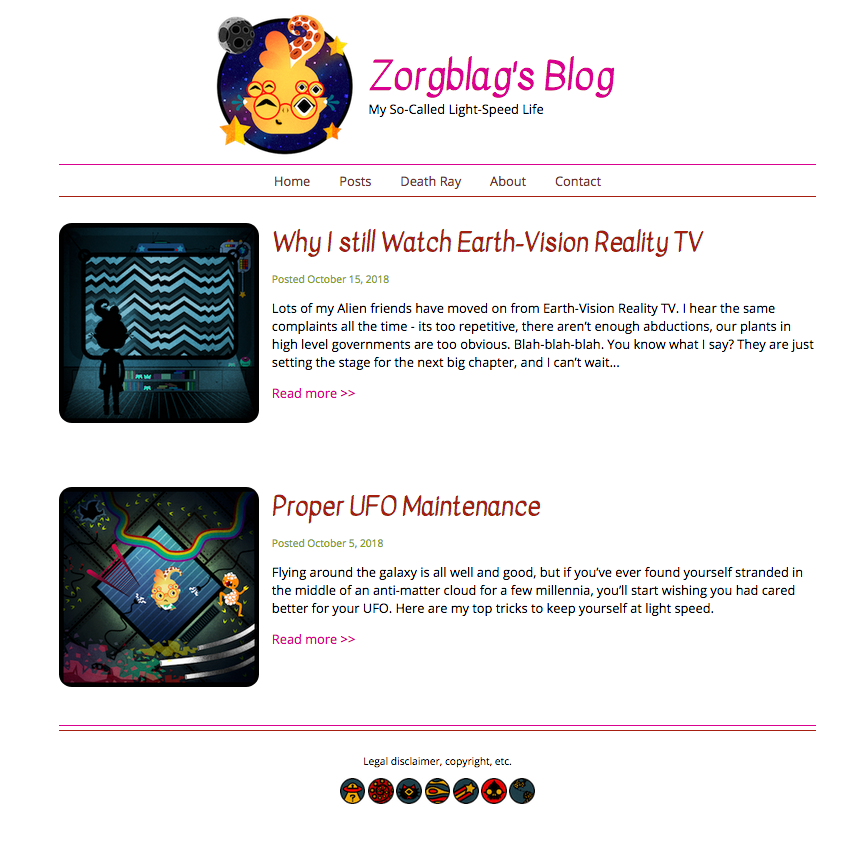
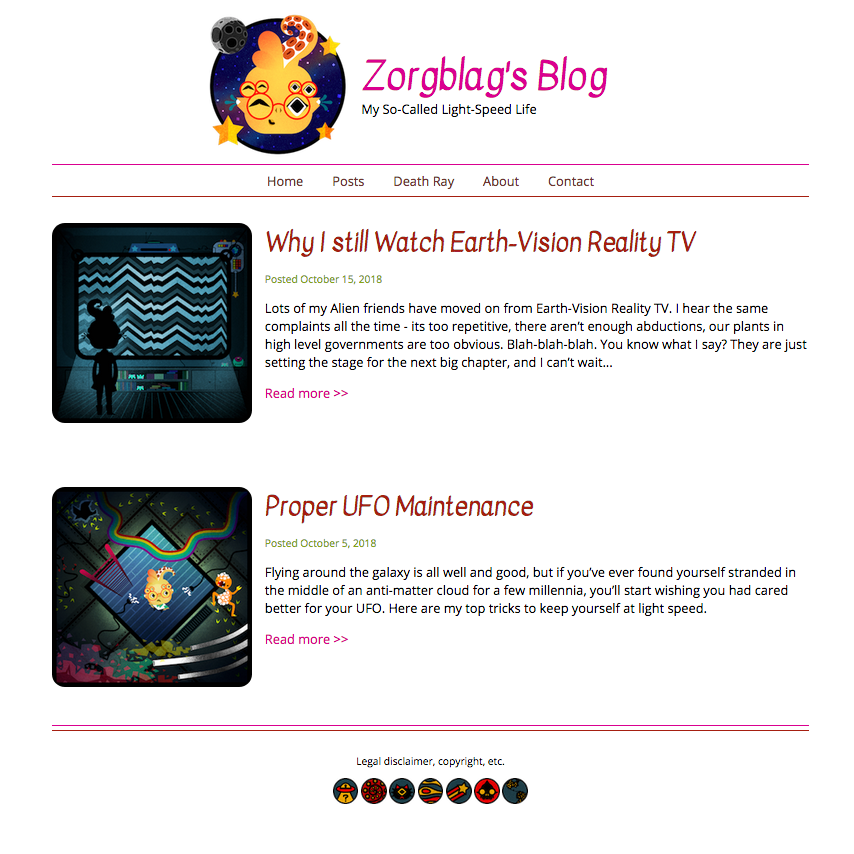
Update intro message, Add Dog Viewer project, Fix images sizes and Fix project description layout

diff --git a/index.html b/index.html
@@ -77,7 +77,7 @@
         </header>
 
         <div class="blackbox">
-          <h2>I'm venturing into the world of programming.</h2>
+          <h2>"TODAY I LEARN TO CODE SO I CAN CREATE THE CODE OF TOMORROW!"</h2>
           <p>
             Hi, my name is <span class="name">Antonio Poloni</span>. Technology
             has always been part of my life. Since childhood, I have harbored a
@@ -190,9 +190,8 @@
                       <p>
                         I used typography to build a nutrition label webpage. I
                         learned how to style text, adjust line height, and
-                        position your text using CSS. Typography is the art of
-                        styling your text to be easily readable and suit its
-                        purpose.
+                        position text using CSS. Typography is the art of
+                        styling text to be easily readable and suit its purpose.
                       </p>
                     </a>
                   </figcaption>
@@ -230,6 +229,31 @@
             <div class="swiper-wrapper">
               <!-- Slides -->
               <div class="swiper-slide">
+                <figure id="FEM-BLP-wordMasters">
+                  <a
+                    href="projects/Frontend Masters/word-masters/word-masters.html"
+                    target="_blank"
+                    ><img
+                      src="projects/Frontend Masters/word-masters/word-masters-screenshot.png"
+                      alt="Word Masters Project Screenshot."
+                  /></a>
+                  <figcaption>
+                    <a
+                      href="projects/Frontend Masters/word-masters/word-masters.html"
+                      target="_blank"
+                    >
+                      <h4>Word Masters (Desktop)</h4>
+                      <p>
+                        Learned to develop a Wordle clone using HTML, CSS, and
+                        JavaScript. Implemented gameplay logic, API integration
+                        for word selection, and dynamic UI updates for user
+                        feedback and interactions.
+                      </p>
+                    </a>
+                  </figcaption>
+                </figure>
+              </div>
+              <div class="swiper-slide">
                 <figure id="FEM-BTC-moleStar">
                   <a
                     href="projects/Frontend Masters/mole-game/mole.html"
@@ -255,25 +279,25 @@
                 </figure>
               </div>
               <div class="swiper-slide">
-                <figure id="FEM-BLP-wordMasters">
+                <figure id="FEM-BTC-dogViewer">
                   <a
-                    href="projects/Frontend Masters/word-masters/word-masters.html"
+                    href="projects/Frontend Masters/dog-viewer/dog-viewer.html"
                     target="_blank"
                     ><img
-                      src="projects/Frontend Masters/word-masters/word-masters-screenshot.png"
-                      alt="Word Masters Project Screenshot."
+                      src="projects/Frontend Masters/dog-viewer/frontendMasters-dogViewer-Screenshot.png"
+                      alt="Dog Viewer Project Screenshot."
                   /></a>
                   <figcaption>
                     <a
-                      href="projects/Frontend Masters/word-masters/word-masters.html"
+                      href="projects/Frontend Masters/dog-viewer/dog-viewer.html"
                       target="_blank"
                     >
-                      <h4>Word Masters (Desktop)</h4>
+                      <h4>Dog Viewer</h4>
                       <p>
-                        Learned to develop a Wordle clone using HTML, CSS, and
-                        JavaScript. Implemented gameplay logic, API integration
-                        for word selection, and dynamic UI updates for user
-                        feedback and interactions.
+                        Allowing users to select a breed and display a random
+                        picture. Learned to handle API requests with
+                        async/await, manage dynamic DOM updates, and implement
+                        CSS animations for a loading spinner.
                       </p>
                     </a>
                   </figcaption>

diff --git a/css/style.css b/css/style.css
@@ -363,11 +363,19 @@
   }
   figure {
     display: grid;
-    grid-template-rows: 1fr 7rem;
+    grid-template-rows: 1fr;
+    margin: 0;
+    padding: 0;
+    max-width: 100%;
+    max-height: 100vh;
+    margin: auto;
   }
   figure img {
-    width: 100%;
-    height: 100%;
+    padding: 0;
+    display: block;
+    margin: 0 auto;
+    max-height: 100%;
+    max-width: 100%;
   }
   figcaption {
     background-color: var(--black);
@@ -378,7 +386,7 @@
     display: flex;
     justify-content: center;
     align-items: center;
-    padding: 1rem 0.5rem;
+    padding: 0.5rem;
     color: var(--white);
   }
   figcaption h4 {
@@ -394,12 +402,6 @@
   figcaption li {
     display: inline-block;
   }
-  .topgrid {
-    display: grid;
-    grid-template-columns: 1fr 1fr 1fr;
-    gap: 2rem;
-    margin: 2rem 0;
-  }
   .projects-button {
     text-align: center;
   }
@@ -413,26 +415,12 @@
     color: var(--green);
   }
 
-  @media (max-width: 1023px) {
-    .topgrid {
-      grid-template-columns: 1fr 1fr;
-    }
-  }
   @media (max-width: 767px) {
-    .topgrid {
-      display: block;
-    }
-    .topgrid figure {
-      margin-bottom: 2rem;
-    }
-    figure {
-      grid-template-rows: 1fr 10rem;
-    }
-
-    figcaption h4 {
-      font-size: var(--h6);
+    figcaption {
+      grid-row: 3/3;
     }
   }
+
   @media (max-width: 426px) {
     .section-projects h2 {
       font-size: var(--h4);
@@ -451,9 +439,8 @@
       font-size: var(--h6);
       text-align: center;
     }
-    figcaption {
-      grid-row: 3/3;
-      height: 10rem;
+    figcaption h4 {
+      font-size: var(--h6);
     }
   }
 }
